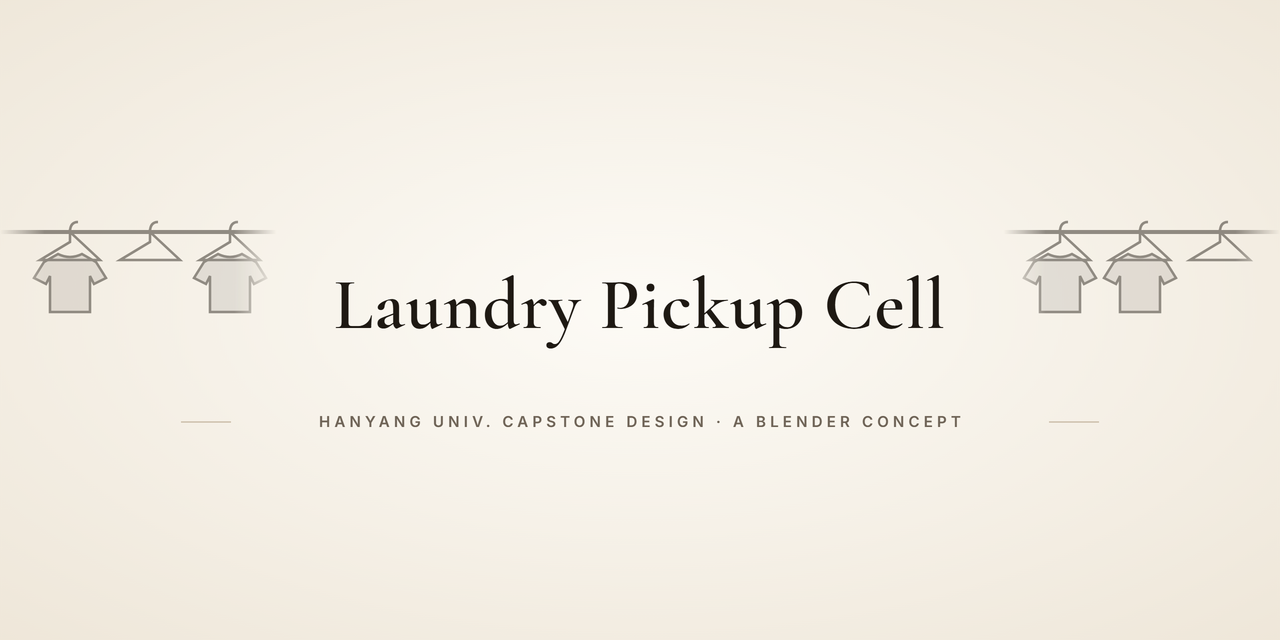
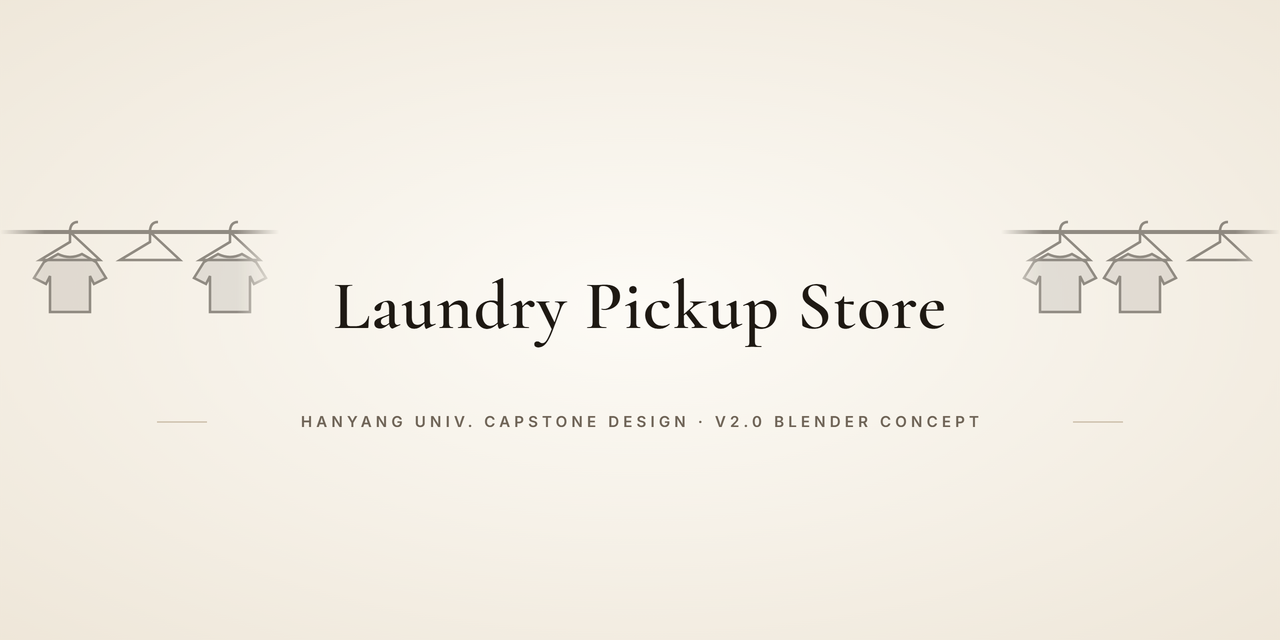
docs: update the capstone card for its V2.0 release
New banner thumbnail and card text for the whole-store V2.0 demo.

Changed region(s): [[0.25, 0.4375, 0.75, 0.5625], [0.25, 0.625, 0.75, 0.6875]]

diff --git a/README.en.md b/README.en.md
@@ -45,8 +45,8 @@ each bounded implementation task goes to a **Claude subagent** or a **Codex CLI 
     </td>
     <td width="50%" valign="top">
       <a href="https://github.com/lsy041015/capstone-design-hanyang-university"><img src="assets/projects/capstone.png" alt="Automated Unmanned Laundry Pickup System"></a>
-      <p><b><a href="https://github.com/lsy041015/capstone-design-hanyang-university">Unmanned Laundry Pickup System</a></b> — Hanyang University capstone design: an automated cell that stores and hands out garments and shoes, designed and checked in Blender (a concept).</p>
-      <p><sub>Blender · robot cell design · design review</sub></p>
+      <p><b><a href="https://github.com/lsy041015/capstone-design-hanyang-university">Unmanned Laundry Pickup System</a></b> — Hanyang University capstone design. V2.0: a 24-hour unmanned pickup store (lobby, self-service laundry, robot cell, staff area) designed and checked on a 1:1 Blender timeline (a concept).</p>
+      <p><sub>Blender · process design · motion study</sub></p>
     </td>
   </tr>
   <tr>

diff --git a/README.md b/README.md
@@ -46,8 +46,8 @@
     </td>
     <td width="50%" valign="top">
       <a href="https://github.com/lsy041015/capstone-design-hanyang-university"><img src="assets/projects/capstone.png" alt="무인 세탁물 수령 시스템"></a>
-      <p><b><a href="https://github.com/lsy041015/capstone-design-hanyang-university">무인 세탁물 수령 시스템</a></b> — 한양대 캡스톤 디자인. 옷과 신발을 보관하고 내어 주는 자동화 셀을 Blender로 설계·검증한 콘셉트.</p>
-      <p><sub>Blender · 로봇 셀 설계 · 설계 검토</sub></p>
+      <p><b><a href="https://github.com/lsy041015/capstone-design-hanyang-university">무인 세탁물 수령 시스템</a></b> — 한양대 캡스톤 디자인. V2.0: 로비·셀프 빨래방·로봇 셀·직원 공간으로 된 24시 무인 세탁 수령소를 1:1 Blender 타임라인으로 설계·검증한 콘셉트.</p>
+      <p><sub>Blender · 공정 설계 · 모션스터디</sub></p>
     </td>
   </tr>
   <tr>
